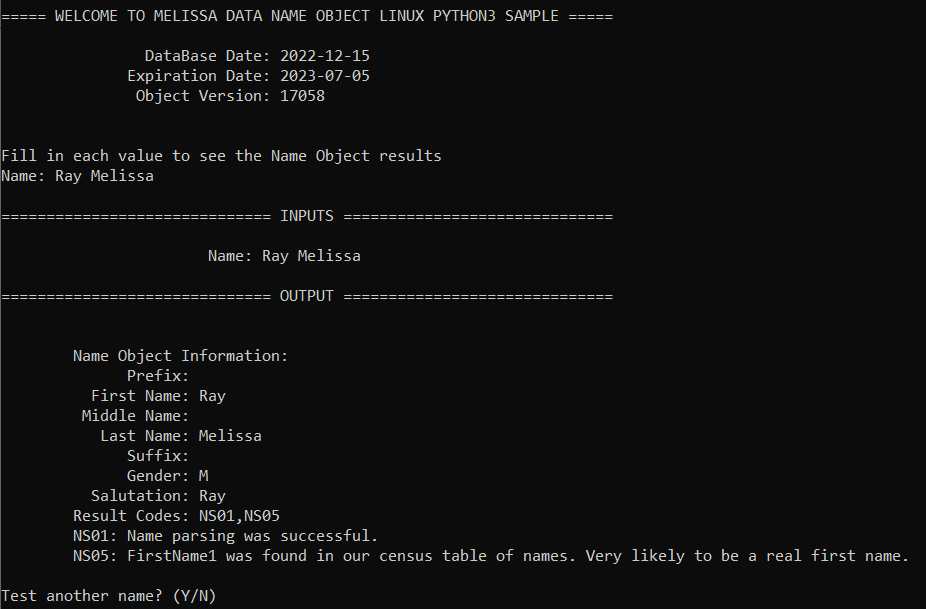
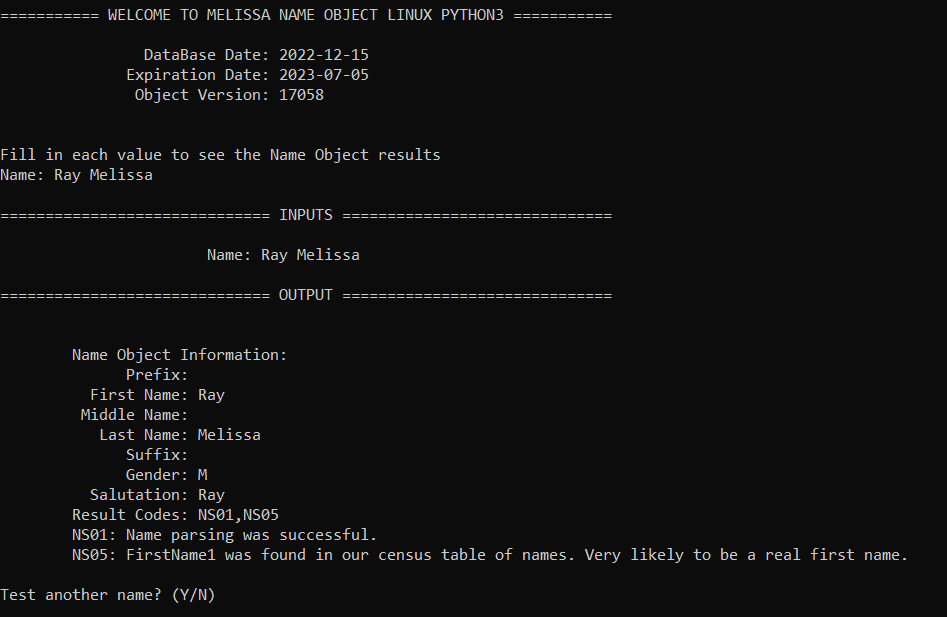
Commit Python3 code for Name Object with release notes

diff --git a/MelissaNameObjectLinuxPython3/MelissaNameObjectLinuxPython3.py b/MelissaNameObjectLinuxPython3/MelissaNameObjectLinuxPython3.py
@@ -31,7 +31,7 @@ class NameObject:
         print(f"              Expiration Date: {self.md_name_obj.GetLicenseExpirationDate()}")
       
         """
-        This number should match with file properties of the Melissa Data Object binary file.
+        This number should match with file properties of the Melissa Object binary file.
         If TEST appears with the build number, there may be a license key issue.
         """
         print(f"               Object Version: {self.md_name_obj.GetBuildNumber()}\n")
@@ -47,8 +47,8 @@ class NameObject:
         result_codes = self.md_name_obj.GetResults()
 
         """ 
-        ResultsCodes explain any issues name object has with the object.
-        List of result codes for Name object
+        ResultsCodes explain any issues Name Object has with the object.
+        List of result codes for Name Object
         https://wiki.melissadata.com/?title=Result_Code_Details#Name_Object
         """
 
@@ -76,7 +76,7 @@ def parse_arguments():
     return (license, test_name, data_path)
 
 def run_as_console(license, test_name, data_path):
-    print("\n\n===== WELCOME TO MELISSA DATA NAME OBJECT LINUX PYTHON3 SAMPLE =====\n")
+    print("\n\n=========== WELCOME TO MELISSA NAME OBJECT LINUX PYTHON3 ===========\n")
 
     name_object = NameObject(license, data_path)
 
@@ -140,7 +140,7 @@ def run_as_console(license, test_name, data_path):
             
               print("Invalid Response, please respond 'Y' or 'N'")
 
-    print("\n=========== THANK YOU FOR USING MELISSA DATA PYTHON3 OBJECT =========\n")
+    print("\n============== THANK YOU FOR USING MELISSA PYTHON3 OBJECT ===========\n")
     
 
 

diff --git a/MelissaNameObjectLinuxPython3/mdName_pythoncode.py b/MelissaNameObjectLinuxPython3/mdName_pythoncode.py
@@ -8,9 +8,9 @@ dir = os.getcwd()
 
 
 if (os.name == 'nt'):
-  lib = ctypes.CDLL(f'{dir}/MelissaDataNameObjectWindowsPython3Sample/mdName.dll')
+  lib = ctypes.CDLL(f'{dir}/MelissaNameObjectWindowsPython3/mdName.dll')
 else:
-  lib = ctypes.CDLL(f'{dir}/MelissaDataNameObjectLinuxPython3Sample/libmdName.so')
+  lib = ctypes.CDLL(f'{dir}/MelissaNameObjectLinuxPython3/libmdName.so')
 
 lib.mdNameCreate.argtypes = []
 lib.mdNameCreate.restype = c_void_p

diff --git a/README.md b/README.md
@@ -1,8 +1,12 @@
-# Melissa Data Name Object Linux Python3 Sample
+# Melissa - Name Object Linux Python3
 
 ## Purpose
 
-This is a sample of the Melissa Data Name Object using Python3
+This code showcases the Melissa Name Object using Python3
+
+Please feel free to copy or embed this code to your own project. Happy coding!
+
+For the latest Melissa Name object release notes, please visit: https://releasenotes.melissa.com/on-premise-api/name-object/
 
 The console will ask the user for:
 
@@ -29,7 +33,7 @@ And return
 
 #### libmdName.so
 
-This is the c++ code of the Melissa Data Object.
+This is the c++ code of the Melissa Object.
 
 #### Data File(s)
 - mdName.cfg
@@ -41,23 +45,13 @@ These instructions will get you a copy of the project up and running on your loc
 This project is compatible with Python3
 
 
-#### Install the Python3
+#### Install Python3
 Before starting, make sure that Python3 has been correctly installed on your machine and your environment paths are configured. 
 
 You can download Python here: 
 https://www.python.org/downloads/
 
-To set up your Path to correctly use the python3 command, execute the following steps:
-1) Run Powershell as an administrator 
-2) Execute the command: 
-`New-Item -ItemType SymbolicLink -Path "Link" -Target "Target"`
-
-    where "Target" is the path to py.exe (by default this should be "C:\Windows\py.exe")\
-    and "Link" is the path to py.exe, but "py.exe" is replaced with "python3.exe"\
-    For Example:\
-    `New-Item -ItemType SymbolicLink -Path "C:\Windows\python3.exe" -Target "C:\Windows\py.exe"`
-
-If you are unsure, you can check by opening a command prompt window and typing the following:
+You can check that your environment is set up correctly by opening a command prompt window and typing the following:
 `python3 --version`
 
 ![alt text](/screenshots/python_version.PNG)
@@ -101,26 +95,26 @@ Melissa Updater is a CLI application allowing the user to update their Melissa a
 
 #### Different ways to get data file(s)
 1.  Using Melissa Updater
-	- It will handle all of the data download/path and dll(s) for you. 
-2.  If you already have the latest DQS Release (ZIP), you can find the data file(s) and dll(s) in there
-	- Use the location of where you copied/installed the data and update the "$DataPath" variable in the powershell script.
-	- Copy all the dll(s) mentioned above into the `MelissaDataNameObjectLinuxPython3Sample` project folder.
+	- It will handle all of the data download/path and .so file(s) for you. 
+2.  If you already have the latest DQS Release (ZIP), you can find the data file(s) and .so file(s) in there
+	- Use the location of where you copied/installed the data and update the "DataPath" variable in the bash script.
+	- Copy all the .so file(s) mentioned above into the `MelissaNameObjectLinuxPython3` project folder.
 	
 ----------------------------------------
 ### Change Bash Script Permissions
 To be able to run the bash script, you must first make it an executable using the command:
 
-`chmod +x MelissaDataNameObjectLinuxPython3Sample.sh`
+`chmod +x MelissaNameObjectLinuxPython3.sh`
 
 Then you need to add permissions to the build directory with the command:
 
-`chmod +rwx MelissaDataNameObjectLinuxPython3Sample`
+`chmod +rwx MelissaNameObjectLinuxPython3`
 
 As an indicator, the filename will change colors once it becomes an executable.
 
-You may also need to alter permissions for the python files. To do this navigate into the MelissaDataNameObjectLinuxPython3Sample directory and run these commands: \
- `chmod +rx MelissaDataNameObjectLinuxPython3Sample/MelissaDataNameObjectLinuxPython3Sample.py` \
-  `chmod +rx MelissaDataNameObjectLinuxPython3Sample/mdName_pythoncode.py`
+You may also need to alter permissions for the python files. To do this navigate into the MelissaNameObjectLinuxPython3 directory and run these commands: \
+ `chmod +rx MelissaNameObjectLinuxPython3/MelissaNameObjectLinuxPython3.py` \
+  `chmod +rx MelissaNameObjectLinuxPython3/mdName_pythoncode.py`
 
 ## Run Bash Script
 
@@ -129,30 +123,30 @@ Parameters:
  	
   This is convenient when you want to get results for a specific name in one run instead of testing multiple names in interactive mode.  
 
-- -l or --license (optional): a license string to test the name object
+- -l or --license (optional): a license string to test the Name Object
 
 - -q or --quiet (optional): add to the command if you do not want to get any console output from the Melissa Updater
 - Interactive 
 
-	The script will prompt the user for an name, then use the provided name to test Name object. For example:
+	The script will prompt the user for an name, then use the provided name to test Name Object. For example:
 	```
-	$ ./MelissaDataNameObjectLinuxPython3Sample.sh
+	$ ./MelissaNameObjectLinuxPython3.sh
 	```
     For quiet mode:
     ```
-    $ ./MelissaDataNameObjectLinuxPython3Sample.sh --quiet
+    $ ./MelissaNameObjectLinuxPython3.sh -quiet
     ```
 - Command Line 
 
-	You can pass a name in ```--name``` parameter and a license string in ```--license``` parameter to test Name object. For example:
+	You can pass a name in ```--name``` parameter and a license string in ```--license``` parameter to test Name Object. For example:
 	```
-    $ ./MelissaDataNameObjectLinuxPython3Sample.sh --name "Ray Melissa" 
-    $ ./MelissaDataNameObjectLinuxPython3Sample.sh --name "Ray Melissa" --license "<your_license_string>"
+    $ ./MelissaNameObjectLinuxPython3.sh --name "Ray Melissa" 
+    $ ./MelissaNameObjectLinuxPython3.sh --name "Ray Melissa" --license "<your_license_string>"
     ```
 	For quiet mode:
     ```
-    $ ./MelissaDataNameObjectLinuxPython3Sample.sh --name "Ray Melissa" --quiet
-    $ ./MelissaDataNameObjectLinuxPython3Sample.sh --name "Ray Melissa" --license "<your_license_string>" --quiet
+    $ ./MelissaNameObjectLinuxPython3.sh --name "Ray Melissa" --quiet
+    $ ./MelissaNameObjectLinuxPython3.sh --name "Ray Melissa" --license "<your_license_string>" --quiet
     ```
 This is the expected output from a successful setup for interactive mode:
 
@@ -161,22 +155,22 @@ This is the expected output from a successful setup for interactive mode:
     
 ## Troubleshooting
 
-Troubleshooting for errors found while running your sample program.
+Troubleshooting for errors found while running your program.
 
 ### Errors:
 
 | Error      | Description |
 | ----------- | ----------- |
 | ErrorRequiredFileNotFound      | Program is missing a required file. Please check your Data folder and refer to the list of required files above. If you are unable to obtain all required files through the Melissa Updater, please contact technical support below. |
-| ErrorDatabaseExpired   | .db file(s) are expired. Please make sure you are downloading and using the latest release version. (If using the Melissa Updater, check powershell script for 'RELEASE_VERSION = {version}'  and change the release version if you are using an out of date release).     |
-| ErrorFoundOldFile   | File(s) are out of date. Please make sure you are downloading and using the latest release version. (If using the Melissa Updater, check powershell script for 'RELEASE_VERSION = {version}'  and change the release version if you are using an out of date release).    |
+| ErrorDatabaseExpired   | .db file(s) are expired. Please make sure you are downloading and using the latest release version. (If using the Melissa Updater, check bash script for 'RELEASE_VERSION = {version}'  and change the release version if you are using an out of date release).     |
+| ErrorFoundOldFile   | File(s) are out of date. Please make sure you are downloading and using the latest release version. (If using the Melissa Updater, check bash script for 'RELEASE_VERSION = {version}'  and change the release version if you are using an out of date release).    |
 | ErrorLicenseExpired   | Expired license string. Please contact technical support below. |
 
 
 ## Contact Us
 
 For free technical support, please call us at 800-MELISSA ext. 4
-(800-635-4772 ext. 4) or email us at tech@MelissaData.com.
+(800-635-4772 ext. 4) or email us at tech@melissa.com.
 
-To purchase this product, contact Melissa Data sales department at
+To purchase this product, contact Melissa sales department at
 800-MELISSA ext. 3 (800-635-4772 ext. 3).

diff --git a/LICENSE.md b/LICENSE.md
@@ -1,0 +1,21 @@
+MIT License
+
+Copyright (c) Melissa Data Corporation
+
+Permission is hereby granted, free of charge, to any person obtaining a copy
+of this software and associated documentation files (the "Software"), to deal
+in the Software without restriction, including without limitation the rights
+to use, copy, modify, merge, publish, distribute, sublicense, and/or sell
+copies of the Software, and to permit persons to whom the Software is
+furnished to do so, subject to the following conditions:
+
+The above copyright notice and this permission notice shall be included in all
+copies or substantial portions of the Software.
+
+THE SOFTWARE IS PROVIDED "AS IS", WITHOUT WARRANTY OF ANY KIND, EXPRESS OR
+IMPLIED, INCLUDING BUT NOT LIMITED TO THE WARRANTIES OF MERCHANTABILITY,
+FITNESS FOR A PARTICULAR PURPOSE AND NONINFRINGEMENT. IN NO EVENT SHALL THE
+AUTHORS OR COPYRIGHT HOLDERS BE LIABLE FOR ANY CLAIM, DAMAGES OR OTHER
+LIABILITY, WHETHER IN AN ACTION OF CONTRACT, TORT OR OTHERWISE, ARISING FROM,
+OUT OF OR IN CONNECTION WITH THE SOFTWARE OR THE USE OR OTHER DEALINGS IN THE
+SOFTWARE.
